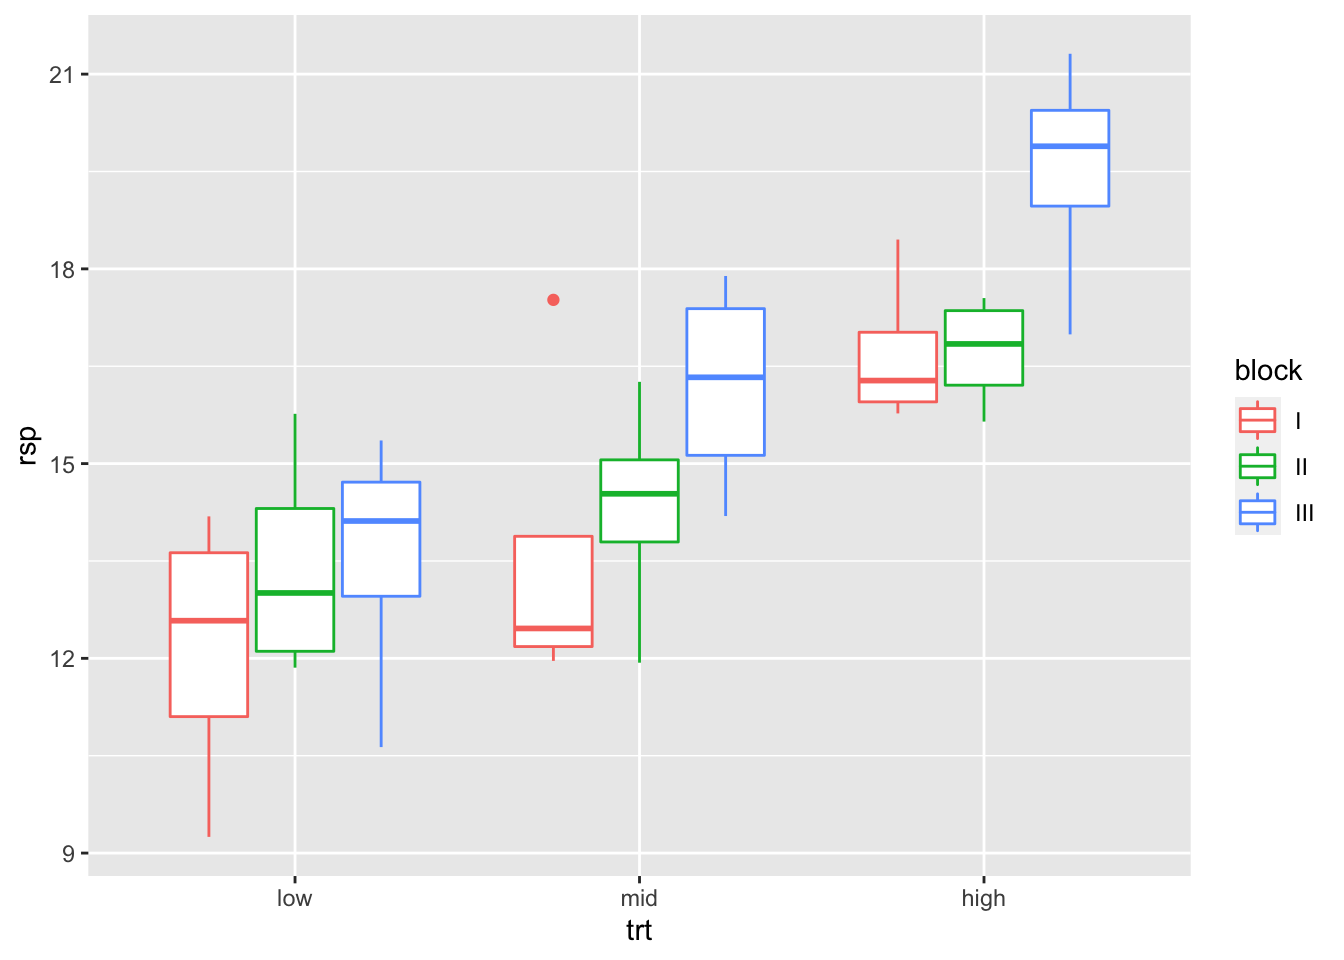
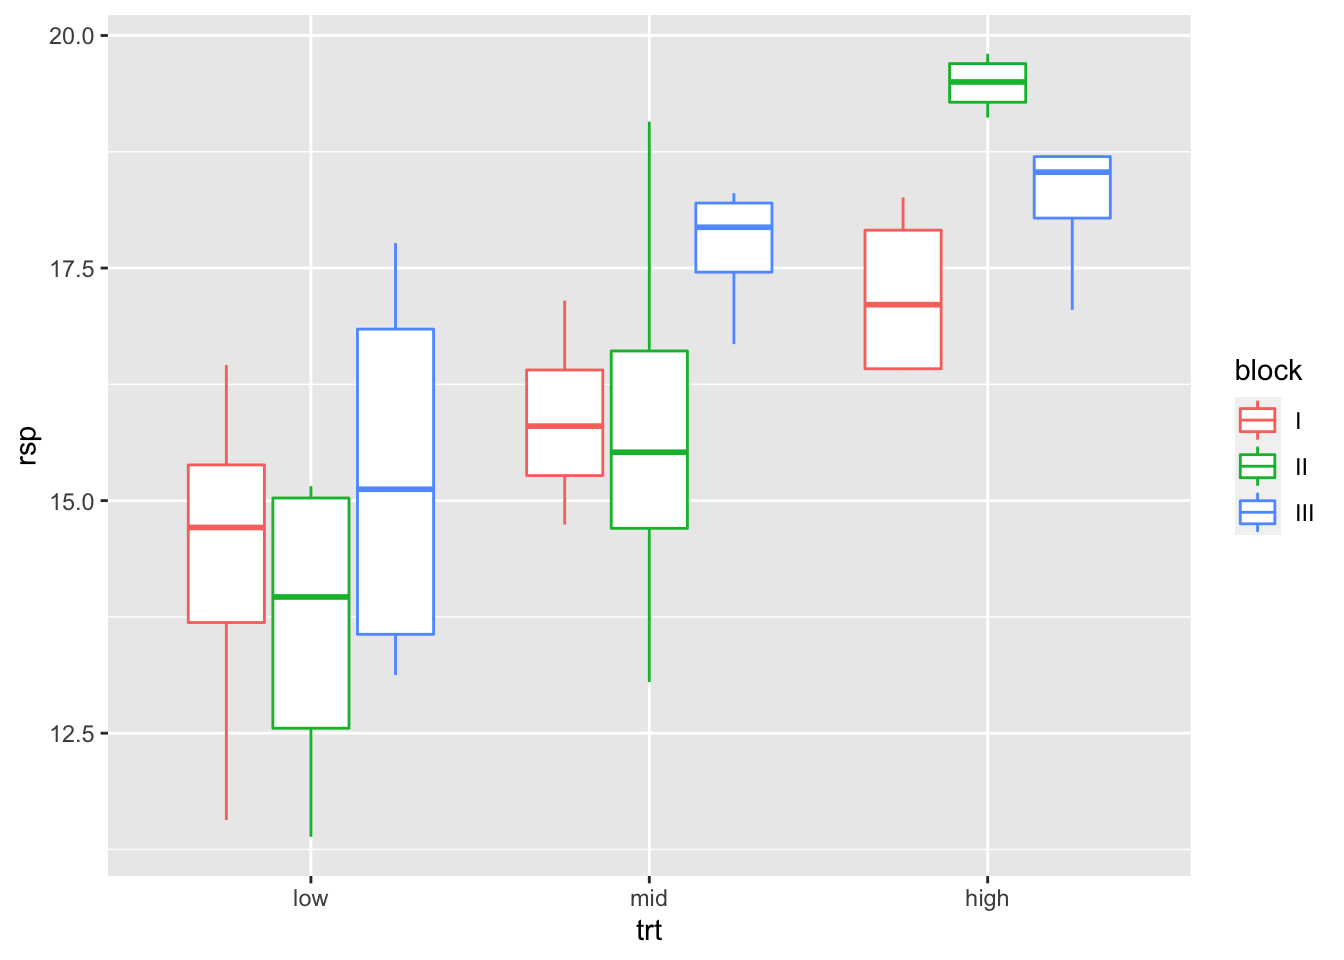
added text

diff --git a/docs/app-example-analysis.html b/docs/app-example-analysis.html
@@ -580,7 +580,7 @@ code span.wa { color: #60a0b0; font-weight: bold; font-style: italic; } /* Warni
 </header><div class="cell">
 
 </div>
-<p><em>Version vom November 18, 2022 um 10:03:40</em></p>
+<p><em>Version vom November 18, 2022 um 10:16:08</em></p>
 <div class="quarto-figure quarto-figure-center">
 <figure class="figure"><p><img src="images/caution.png" class="img-fluid figure-img" style="width:50.0%"></p>
 </figure>
@@ -896,6 +896,7 @@ growth \sim light\_intensity + layer + rack
 </div>
 </div>
 </div>
+<p>Und wir sehen schon, da stimmt was nicht. Die Annahme der ANOVA ist, dass sich der Trend im ersten Faktorlevel für alle im Faktor über die anderen Faktoren gleicht. Das liest sich kryptisch, aber verdeutlichen wir es mal. Im Level <code>low</code> steigen alle Level des Faktors <code>rack</code> an. Wenn <em>keine</em> Interaktion vorliegen würde, dann müssten dieses Muster in dem Level <code>mid</code> und <code>high</code> ebenfalls annährend zu beobachten sein. Tut es aber nicht. Wir haben eine Interaktion zwischen <code>light_intensity</code> und <code>rack</code> visuell bestätigt.</p>
 <div class="cell" data-layout-align="center">
 <div class="sourceCode" id="cb16"><pre class="downlit sourceCode r code-with-copy"><code class="sourceCode R"><span><span class="fu">ggplot</span><span class="op">(</span><span class="va">light_tbl</span>, <span class="fu">aes</span><span class="op">(</span><span class="va">light_intensity</span>, <span class="va">growth</span>, fill <span class="op">=</span> <span class="va">layer</span><span class="op">)</span><span class="op">)</span> <span class="op">+</span></span>
 <span>  <span class="fu">theme_bw</span><span class="op">(</span><span class="op">)</span> <span class="op">+</span></span>
@@ -909,6 +910,7 @@ growth \sim light\_intensity + layer + rack
 </div>
 </div>
 </div>
+<p>Dieses wirre Muster sehen wir dann auch in <a href="#fig-app-anova-interaction-2">Abbildung&nbsp;<span>A.4</span></a>. Hier passen die Trends des Faktors <code>layer</code> über die Faktorlevel <code>low</code>, <code>mid</code> und <code>high</code> auch wieder nicht. Schauen wir uns jetzt nochmal die ganze Sache aufgeteilt nach <code>rack</code> und <code>layer</code> an. Vielelicht werden wir dann etwas schlauer oder das Problem wird noch klarer.</p>
 <div class="cell" data-layout-align="center">
 <div class="sourceCode" id="cb17"><pre class="downlit sourceCode r code-with-copy"><code class="sourceCode R"><span><span class="fu">ggplot</span><span class="op">(</span><span class="va">light_tbl</span>, <span class="fu">aes</span><span class="op">(</span><span class="va">light_intensity</span>, <span class="va">growth</span>, fill <span class="op">=</span> <span class="va">rack</span><span class="op">)</span><span class="op">)</span> <span class="op">+</span></span>
 <span>  <span class="fu">theme_bw</span><span class="op">(</span><span class="op">)</span> <span class="op">+</span></span>
@@ -923,6 +925,7 @@ growth \sim light\_intensity + layer + rack
 </div>
 </div>
 </div>
+<p>Jetzt sehen wir etwas mehr. Im <code>1st</code> Level liegen alle <code>rack</code>-Level auf einer Ebene. Ebenso liegen alle <code>rack</code>-Level auf einer Ebene im <code>2n</code> Level. Das ganze Problem der Interaktion entsteht im <code>3rd</code> Level. Hier ging etwas drunter und drüber im Pflanzenwachstum. Wir wissen jetzt, dass das dritte Layer anscheinend defekt war oder irgendwas dort mit den Racks nicht gestimmt hat.</p>
 <div class="cell">
 <div class="sourceCode" id="cb18"><pre class="downlit sourceCode r code-with-copy"><code class="sourceCode R"><span><span class="va">fit_1</span> <span class="op">&lt;-</span> <span class="fu"><a href="https://rdrr.io/r/stats/lm.html">lm</a></span><span class="op">(</span><span class="va">growth</span> <span class="op">~</span> <span class="va">light_intensity</span> <span class="op">+</span> <span class="va">layer</span> <span class="op">+</span> <span class="va">light_intensity</span><span class="op">:</span><span class="va">layer</span>, </span>
 <span>            data <span class="op">=</span> <span class="va">light_tbl</span><span class="op">)</span></span>
@@ -1053,217 +1056,217 @@ NOTE: Compact letter displays can be misleading
 <td style="text-align: center;">low</td>
 <td style="text-align: center;">I</td>
 <td style="text-align: center;">1</td>
-<td style="text-align: center;">13.44</td>
+<td style="text-align: center;">11.57</td>
 </tr>
 <tr class="even">
 <td style="text-align: center;">low</td>
 <td style="text-align: center;">I</td>
 <td style="text-align: center;">2</td>
-<td style="text-align: center;">11.72</td>
+<td style="text-align: center;">16.46</td>
 </tr>
 <tr class="odd">
 <td style="text-align: center;">low</td>
 <td style="text-align: center;">I</td>
 <td style="text-align: center;">3</td>
-<td style="text-align: center;">14.19</td>
+<td style="text-align: center;">14.40</td>
 </tr>
 <tr class="even">
 <td style="text-align: center;">low</td>
 <td style="text-align: center;">I</td>
 <td style="text-align: center;">4</td>
-<td style="text-align: center;">9.25</td>
+<td style="text-align: center;">15.03</td>
 </tr>
 <tr class="odd">
 <td style="text-align: center;">low</td>
 <td style="text-align: center;">II</td>
 <td style="text-align: center;">1</td>
-<td style="text-align: center;">11.86</td>
+<td style="text-align: center;">11.39</td>
 </tr>
 <tr class="even">
 <td style="text-align: center;">low</td>
 <td style="text-align: center;">II</td>
 <td style="text-align: center;">2</td>
-<td style="text-align: center;">12.19</td>
+<td style="text-align: center;">12.94</td>
 </tr>
 <tr class="odd">
 <td style="text-align: center;">low</td>
 <td style="text-align: center;">II</td>
 <td style="text-align: center;">3</td>
-<td style="text-align: center;">13.82</td>
+<td style="text-align: center;">14.99</td>
 </tr>
 <tr class="even">
 <td style="text-align: center;">low</td>
 <td style="text-align: center;">II</td>
 <td style="text-align: center;">4</td>
-<td style="text-align: center;">15.77</td>
+<td style="text-align: center;">15.15</td>
 </tr>
 <tr class="odd">
 <td style="text-align: center;">low</td>
 <td style="text-align: center;">III</td>
 <td style="text-align: center;">1</td>
-<td style="text-align: center;">10.63</td>
+<td style="text-align: center;">13.71</td>
 </tr>
 <tr class="even">
 <td style="text-align: center;">low</td>
 <td style="text-align: center;">III</td>
 <td style="text-align: center;">2</td>
-<td style="text-align: center;">13.73</td>
+<td style="text-align: center;">16.54</td>
 </tr>
 <tr class="odd">
 <td style="text-align: center;">low</td>
 <td style="text-align: center;">III</td>
 <td style="text-align: center;">3</td>
-<td style="text-align: center;">15.36</td>
+<td style="text-align: center;">13.13</td>
 </tr>
 <tr class="even">
 <td style="text-align: center;">low</td>
 <td style="text-align: center;">III</td>
 <td style="text-align: center;">4</td>
-<td style="text-align: center;">14.50</td>
+<td style="text-align: center;">17.77</td>
 </tr>
 <tr class="odd">
 <td style="text-align: center;">mid</td>
 <td style="text-align: center;">I</td>
 <td style="text-align: center;">1</td>
-<td style="text-align: center;">12.67</td>
+<td style="text-align: center;">16.16</td>
 </tr>
 <tr class="even">
 <td style="text-align: center;">mid</td>
 <td style="text-align: center;">I</td>
 <td style="text-align: center;">2</td>
-<td style="text-align: center;">17.52</td>
+<td style="text-align: center;">17.15</td>
 </tr>
 <tr class="odd">
 <td style="text-align: center;">mid</td>
 <td style="text-align: center;">I</td>
 <td style="text-align: center;">3</td>
-<td style="text-align: center;">12.25</td>
+<td style="text-align: center;">15.45</td>
 </tr>
 <tr class="even">
 <td style="text-align: center;">mid</td>
 <td style="text-align: center;">I</td>
 <td style="text-align: center;">4</td>
-<td style="text-align: center;">11.96</td>
+<td style="text-align: center;">14.74</td>
 </tr>
 <tr class="odd">
 <td style="text-align: center;">mid</td>
 <td style="text-align: center;">II</td>
 <td style="text-align: center;">1</td>
-<td style="text-align: center;">14.66</td>
+<td style="text-align: center;">19.07</td>
 </tr>
 <tr class="even">
 <td style="text-align: center;">mid</td>
 <td style="text-align: center;">II</td>
 <td style="text-align: center;">2</td>
-<td style="text-align: center;">14.41</td>
+<td style="text-align: center;">15.79</td>
 </tr>
 <tr class="odd">
 <td style="text-align: center;">mid</td>
 <td style="text-align: center;">II</td>
 <td style="text-align: center;">3</td>
-<td style="text-align: center;">16.26</td>
+<td style="text-align: center;">15.25</td>
 </tr>
 <tr class="even">
 <td style="text-align: center;">mid</td>
 <td style="text-align: center;">II</td>
 <td style="text-align: center;">4</td>
-<td style="text-align: center;">11.93</td>
+<td style="text-align: center;">13.05</td>
 </tr>
 <tr class="odd">
 <td style="text-align: center;">mid</td>
 <td style="text-align: center;">III</td>
 <td style="text-align: center;">1</td>
-<td style="text-align: center;">17.89</td>
+<td style="text-align: center;">17.71</td>
 </tr>
 <tr class="even">
 <td style="text-align: center;">mid</td>
 <td style="text-align: center;">III</td>
 <td style="text-align: center;">2</td>
-<td style="text-align: center;">15.44</td>
+<td style="text-align: center;">18.16</td>
 </tr>
 <tr class="odd">
 <td style="text-align: center;">mid</td>
 <td style="text-align: center;">III</td>
 <td style="text-align: center;">3</td>
-<td style="text-align: center;">17.22</td>
+<td style="text-align: center;">18.30</td>
 </tr>
 <tr class="even">
 <td style="text-align: center;">mid</td>
 <td style="text-align: center;">III</td>
 <td style="text-align: center;">4</td>
-<td style="text-align: center;">14.19</td>
+<td style="text-align: center;">16.68</td>
 </tr>
 <tr class="odd">
 <td style="text-align: center;">high</td>
 <td style="text-align: center;">I</td>
 <td style="text-align: center;">1</td>
-<td style="text-align: center;">16.01</td>
+<td style="text-align: center;">18.26</td>
 </tr>
 <tr class="even">
 <td style="text-align: center;">high</td>
 <td style="text-align: center;">I</td>
 <td style="text-align: center;">2</td>
-<td style="text-align: center;">16.55</td>
+<td style="text-align: center;">17.79</td>
 </tr>
 <tr class="odd">
 <td style="text-align: center;">high</td>
 <td style="text-align: center;">I</td>
 <td style="text-align: center;">3</td>
-<td style="text-align: center;">15.77</td>
-</tr>
-<tr class="even">
-<td style="text-align: center;">high</td>
-<td style="text-align: center;">I</td>
-<td style="text-align: center;">4</td>
-<td style="text-align: center;">18.45</td>
-</tr>
-<tr class="odd">
-<td style="text-align: center;">high</td>
-<td style="text-align: center;">II</td>
-<td style="text-align: center;">1</td>
-<td style="text-align: center;">15.65</td>
-</tr>
-<tr class="even">
-<td style="text-align: center;">high</td>
-<td style="text-align: center;">II</td>
-<td style="text-align: center;">2</td>
-<td style="text-align: center;">17.55</td>
-</tr>
-<tr class="odd">
-<td style="text-align: center;">high</td>
-<td style="text-align: center;">II</td>
-<td style="text-align: center;">3</td>
-<td style="text-align: center;">17.29</td>
-</tr>
-<tr class="even">
-<td style="text-align: center;">high</td>
-<td style="text-align: center;">II</td>
-<td style="text-align: center;">4</td>
 <td style="text-align: center;">16.40</td>
 </tr>
+<tr class="even">
+<td style="text-align: center;">high</td>
+<td style="text-align: center;">I</td>
+<td style="text-align: center;">4</td>
+<td style="text-align: center;">16.42</td>
+</tr>
+<tr class="odd">
+<td style="text-align: center;">high</td>
+<td style="text-align: center;">II</td>
+<td style="text-align: center;">1</td>
+<td style="text-align: center;">19.80</td>
+</tr>
+<tr class="even">
+<td style="text-align: center;">high</td>
+<td style="text-align: center;">II</td>
+<td style="text-align: center;">2</td>
+<td style="text-align: center;">19.66</td>
+</tr>
+<tr class="odd">
+<td style="text-align: center;">high</td>
+<td style="text-align: center;">II</td>
+<td style="text-align: center;">3</td>
+<td style="text-align: center;">19.34</td>
+</tr>
+<tr class="even">
+<td style="text-align: center;">high</td>
+<td style="text-align: center;">II</td>
+<td style="text-align: center;">4</td>
+<td style="text-align: center;">19.12</td>
+</tr>
 <tr class="odd">
 <td style="text-align: center;">high</td>
 <td style="text-align: center;">III</td>
 <td style="text-align: center;">1</td>
-<td style="text-align: center;">16.99</td>
+<td style="text-align: center;">18.70</td>
 </tr>
 <tr class="even">
 <td style="text-align: center;">high</td>
 <td style="text-align: center;">III</td>
 <td style="text-align: center;">2</td>
-<td style="text-align: center;">20.15</td>
+<td style="text-align: center;">18.37</td>
 </tr>
 <tr class="odd">
 <td style="text-align: center;">high</td>
 <td style="text-align: center;">III</td>
 <td style="text-align: center;">3</td>
-<td style="text-align: center;">21.31</td>
+<td style="text-align: center;">18.70</td>
 </tr>
 <tr class="even">
 <td style="text-align: center;">high</td>
 <td style="text-align: center;">III</td>
 <td style="text-align: center;">4</td>
-<td style="text-align: center;">19.63</td>
+<td style="text-align: center;">17.05</td>
 </tr>
 </tbody>
 </table>
@@ -1307,10 +1310,10 @@ NOTE: Compact letter displays can be misleading
 <pre><code>Analysis of Variance Table
 
 Response: rsp
-          Df   Sum Sq Mean Sq  F value       Pr(&gt;F)    
-trt        2 130.6815 65.3408 20.31706 0.0000023001 ***
-block      2  32.7237 16.3619  5.08756     0.012282 *  
-Residuals 31  99.6977  3.2161                          
+          Df  Sum Sq Mean Sq F value       Pr(&gt;F)    
+trt        2 90.3950 45.1975 17.2503 0.0000092109 ***
+block      2  9.5524  4.7762  1.8229      0.17845    
+Residuals 31 81.2231  2.6201                         
 ---
 Signif. codes:  0 '***' 0.001 '**' 0.01 '*' 0.05 '.' 0.1 ' ' 1</code></pre>
 </div>
@@ -1328,9 +1331,9 @@ Signif. codes:  0 '***' 0.001 '**' 0.01 '*' 0.05 '.' 0.1 ' ' 1</code></pre>
 <pre><code># A tibble: 3 × 3
   contrast   estimate adj.p.value
   &lt;chr&gt;         &lt;dbl&gt;       &lt;dbl&gt;
-1 mid - low      1.66      0.0753
-2 high - low     4.61      0     
-3 high - mid     2.95      0.001 </code></pre>
+1 mid - low      2.04      0.0116
+2 high - low     3.88      0     
+3 high - mid     1.84      0.0237</code></pre>
 </div>
 </div>
 </section><section id="gruppenvergleich-mit-der-emmeans-paket" class="level3" data-number="A.5.5"><h3 data-number="A.5.5" class="anchored" data-anchor-id="gruppenvergleich-mit-der-emmeans-paket">
@@ -1347,9 +1350,9 @@ Signif. codes:  0 '***' 0.001 '**' 0.01 '*' 0.05 '.' 0.1 ' ' 1</code></pre>
 <pre><code># A tibble: 3 × 3
   contrast   estimate adj.p.value
   &lt;chr&gt;         &lt;dbl&gt;       &lt;dbl&gt;
-1 low - mid     -1.66      0.0751
-2 low - high    -4.61      0     
-3 mid - high    -2.95      0.001 </code></pre>
+1 low - mid     -2.04      0.0115
+2 low - high    -3.88      0     
+3 mid - high    -1.84      0.0238</code></pre>
 </div>
 </div>
 </section></section><section id="auswertung-von-boniturnoten" class="level2" data-number="A.6"><h2 data-number="A.6" class="anchored" data-anchor-id="auswertung-von-boniturnoten">
